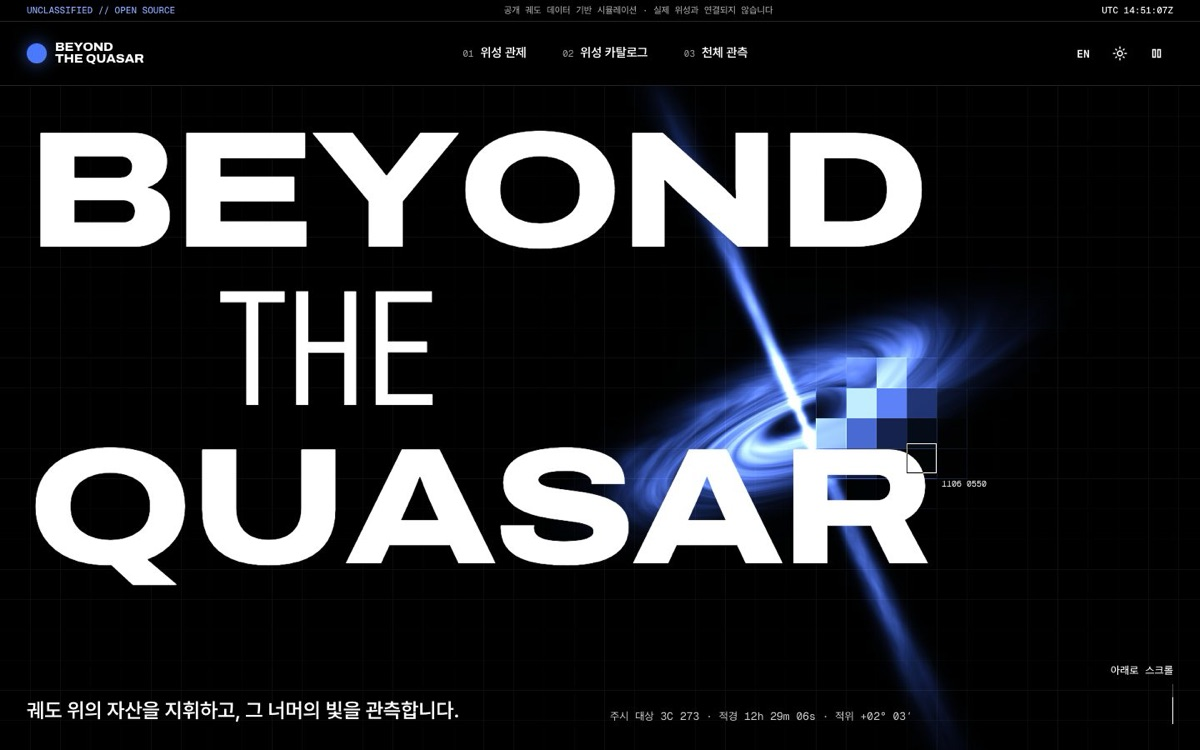
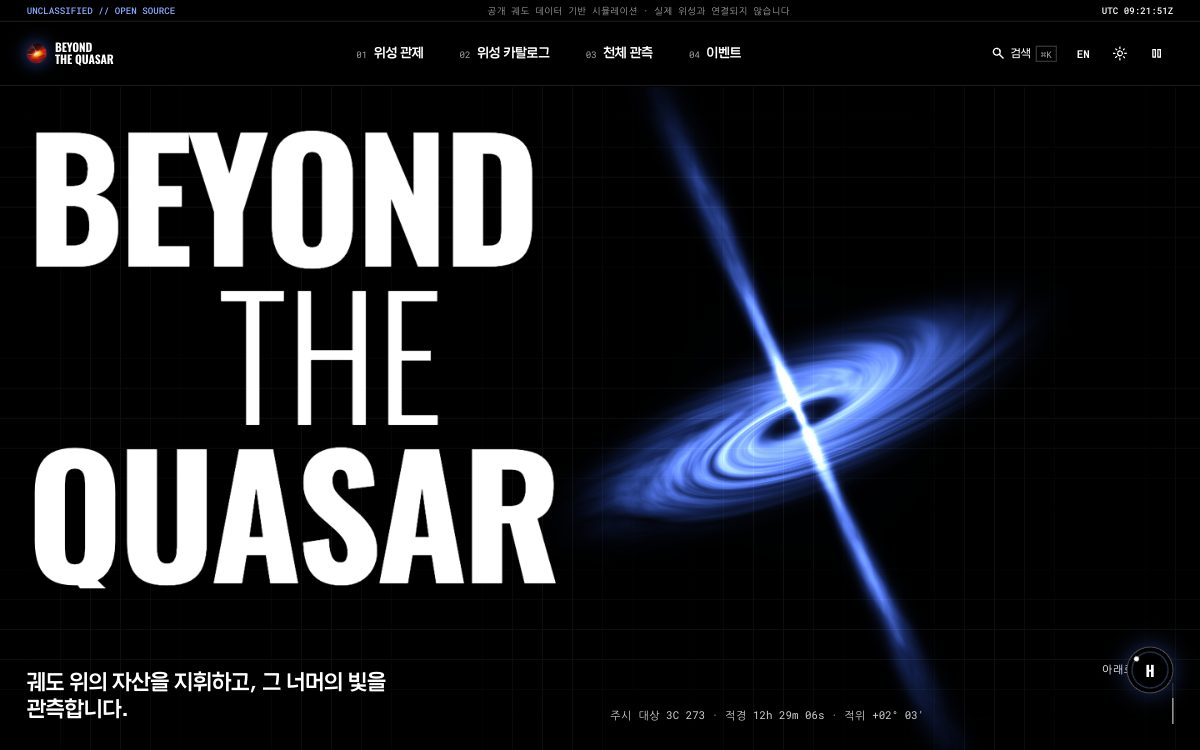
fix: 공유 미리보기 이미지의 옛 로고를 쿼사르 사진으로 (1.0.1)
- public/og.jpg에 0.7.7 이전 로고(파란 점)와 옛 첫 화면이 남아 있었음.
  지금 홈 첫 화면(1440×900 배치)을 1200×750으로 찍어 바꿈
- 촬영 스크립트(bun run screenshots)가 공유 이미지도 함께 찍게 해,
  README 화면을 다시 찍으면 미리보기도 같이 바뀜

diff --git a/README.md b/README.md
@@ -1,7 +1,7 @@
 # 🔵 Beyond the Quasar
 
 [![CI](https://github.com/ryushin01/beyond-the-quasar/actions/workflows/ci.yml/badge.svg)](https://github.com/ryushin01/beyond-the-quasar/actions/workflows/ci.yml)
-![version](https://img.shields.io/badge/version-1.0.0-1a3fe0)
+![version](https://img.shields.io/badge/version-1.0.1-1a3fe0)
 ![Histoire](https://img.shields.io/badge/Histoire-1.0_beta-34D399)
 
 군사·항법·기상·통신 위성을 추적하고 오늘 밤의 하늘을 관측하는 위성 관제·천체 관측 웹 앱입니다.
@@ -108,7 +108,7 @@ bun run dev    # http://localhost:5173
 | `bun run test:e2e` | 프로덕션 빌드의 레이아웃·접근성·업무 흐름 검사 (먼저 `build` 필요) |
 | `bun run size` / `lhci` | 번들 크기 예산 / Lighthouse 기준 검사 (먼저 `build` 필요) |
 | `bun run data:tle` | CelesTrak에서 궤도 스냅샷 갱신 |
-| `bun run screenshots` | README 화면 다시 찍기 (먼저 `build:site` 뒤 `preview` 실행) |
+| `bun run screenshots` | README 화면과 링크 공유 미리보기(`public/og.jpg`) 다시 찍기 (먼저 `build:site` 뒤 `preview` 실행) |
 
 ## 프로젝트 구조
 

diff --git a/CHANGELOG.md b/CHANGELOG.md
@@ -1,5 +1,10 @@
 # 버전 기록
 
+## 1.0.1 (2026-11-16)
+
+- 링크 공유 미리보기(`public/og.jpg`)에 남아 있던 옛 로고(파란 점)를 지금 로고(쿼사르 사진)로: 0.7.7에서 머리글 로고와 README 화면은 바꿨지만 공유 이미지는 그대로였음. 지금 홈 첫 화면(1440×900 배치)을 1200×750으로 찍어 바꿈
+- 촬영 스크립트(`bun run screenshots`)가 공유 이미지도 함께 찍게 해, 로고나 첫 화면이 바뀌어 README 화면을 다시 찍으면 미리보기도 같이 바뀜
+
 ## 1.0.0 (2026-11-16)
 
 정식 런칭 버전. 0.9.0~0.13.0의 런칭 준비를 묶어 1.0으로 올립니다.
